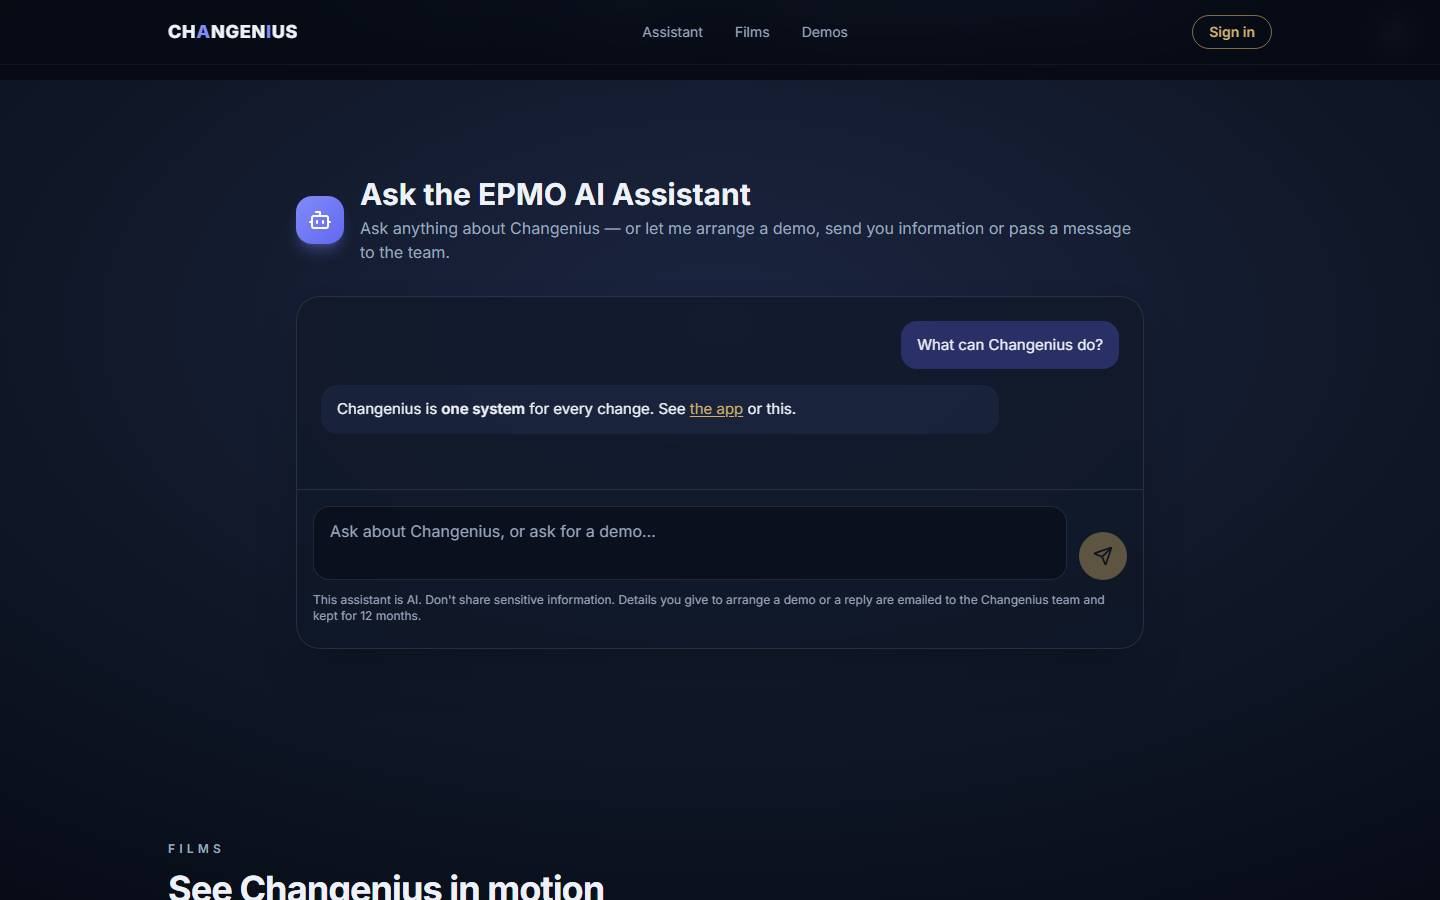
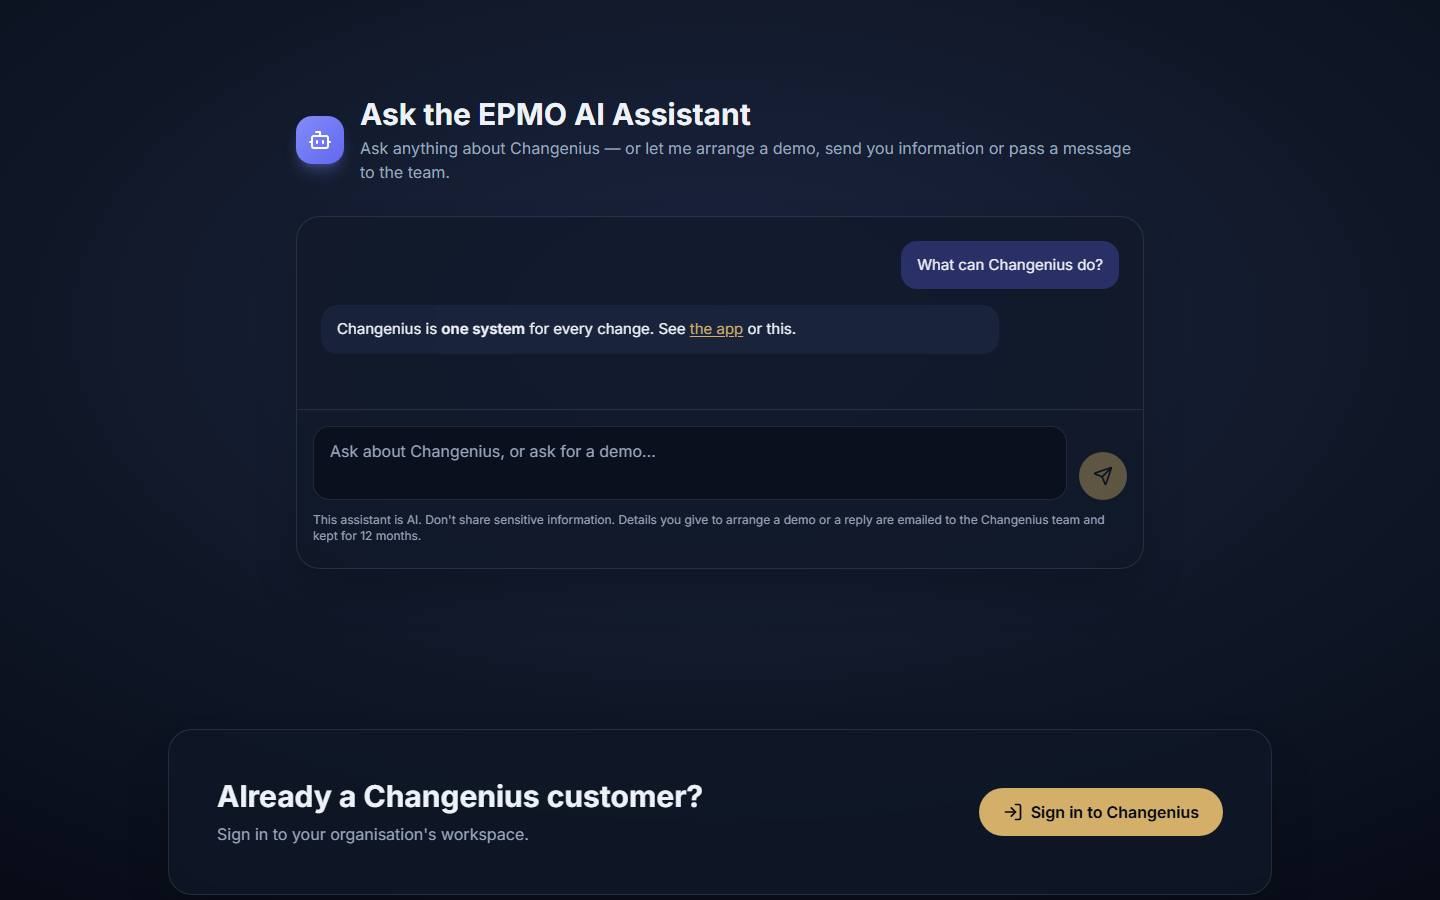
docs: SIT for the hero swap and page restructure, all screenshots retaken

diff --git a/docs/sit/2026-11-11-landing-sit.md b/docs/sit/2026-11-11-landing-sit.md
@@ -2,6 +2,10 @@
 
 **Date:** 11 Nov 2026 · **Branch:** `revamp/changenius-landing` (worktree `C:/Websites/cellgenius-website`), tested at `72cc755` plus the documentation added with this report · **Not pushed.**
 
+> **Superseded in part (later on 11 Nov 2026):** the planet hero, the header, the hero buttons and the module
+> commercials described below are gone. See [Hero swap and page restructure](#hero-swap-and-page-restructure-owner-decisions-11-nov-2026)
+> at the end. The screenshots in `2026-11-11-shots/` were all retaken for it.
+
 ## Result in one paragraph
 
 Every automated check passed. A production build was tested twice: with the assistant **on** (Turnstile test keys and a stub of the app on port 3199) and **off** (how the site will launch). The Content Security Policy blocked nothing in either build, and every script on the page carries the nonce. The chat answered. Lighthouse on a phone profile scores **98 performance / 100 accessibility with the assistant off**. With the assistant **on**, performance drops to **75**, because Cloudflare Turnstile loads with the page. That has to be fixed before the assistant is switched on, but it does not affect launch. The decorative planet labels in the hero fall below normal text contrast when they pass over the glow or the big word.
@@ -65,19 +69,21 @@ Three demo-tile readings at the very top of the screen came out as 1.0 because t
 
 | File | Shows | Seen |
 |---|---|---|
-| `01-hero-mid-word` | "AGENTIC AI" while it morphs | OK. Retaken after the follow-up: the CHANGE label dims while it crosses the word |
-| `02-hero-close` | "CHANGE IN US" | OK. Retaken after the follow-up: on phone the labels stay inside the screen |
-| `03-hero-reduced-motion` | Still frame, all planets | OK. Retaken with the brighter labels and halo |
+| `01-hero-mid-word` | Wordmark show, act "born from the top": AGENTIC AI built from the name (14.5 s into the 147.2 s loop) | OK |
+| `02-hero-close` | The closure: CHANGE IN US and "The change is in us" (144.5 s) | OK |
+| `03-hero-reduced-motion` | Reduced motion: the show's static CHANGENIUS, no backdrop video | OK |
 | `04-assistant-empty` | Chips, message box, footnote | OK |
-| `05-assistant-answer` | Answer with an own-domain link | OK. The link to another domain is shown as plain text |
+| `05-assistant-answer` | Answer with an own-domain link | OK |
 | `06-assistant-request-card` | Demo request card | OK. On phone the card scrolls inside the conversation |
 | `07-assistant-sent` | Confirmation line | OK |
-| `08-films` | Film section | OK. Retaken after the follow-up: the missing poster now leaves the designed title card |
+| `08-films` | Films section: the 2-minute film first | OK. Poster 404 locally, so the designed title card shows |
 | `09-film-viewer` | Viewer dialog | Spinner only: no media locally |
-| `10-sign-in` | Sign-in panel | OK |
-| `11-demos` | Demo chapters | OK |
-| `12-hero-assistant-off` | Hero with the assistant off: "Questions? Email us" | OK. The phone frame was caught while the name blurs in, which is the intro animation |
-| `13-assistant-off-section` | The email line in place of the chat; header says "Contact" | OK |
+| `10-sign-in` | Sign-in panel, now above the films | OK |
+| `11-film-chapters` | The executive demo chapters, after the deeper look, inside the films section (replaces `11-demos`) | OK |
+| `12-hero-assistant-off` | Hero with the assistant off (the hero no longer differs: no buttons) | OK |
+| `13-assistant-off-section` | The email line in place of the chat | OK |
+| `14-hero-hub-cascade` | Act "hub cascade": CHANGE morphing in place (54 s) | OK |
+| `15-hero-constellation` | Act "constellation": five orbiting words round CHANGENIUS (139 s) | OK on desktop. On phone the outer script lines touch or cross the screen edge (finding H1) |
 
 ## Findings
 
@@ -144,15 +150,46 @@ Before: desktop medians 2.2–7.7, phone 2.0–4.1. One phone sample had a singl
 
 - Middleware matcher not anchored (`api|media|icon.svg`). It is a guarded file, so changing it needs an owner-approved script.
 - Two anonymous-default-export lint warnings.
-- The phone menu's navigation label is the same as the desktop one ("Sections"). The Escape path in the phone menu is not tested.
 - With reduced motion, the hidden backdrop video may still download before hydration (`preload="auto"`).
-- No e2e that Pause stops the motion cycle.
 - The rate limiter is per instance (the app's limits are the real ones).
 - The e2e stub does not record calls. The Markdown parser is slow on an unclosed `[`. The Playwright servers do not reuse running ones, so ports must be free.
-- With the assistant on, the hero button focuses the message box. If it is clicked in the first ~0.6 s, before the chat chunk arrives, nothing gets focus.
 - The Vercel `MEDIA_BASE_URL` warning may print more than once per build.
 
-## Not tested
+## Hero swap and page restructure (owner decisions, 11 Nov 2026)
+
+Tested at the commit that carries this section. Production builds with the assistant **on** (Turnstile test keys, app stub on 3199, server on 3200) and **off** (server on 3201).
+
+**What changed.**
+
+1. **Hero.** The planet visualisation is replaced by the app's login-page wordmark show, copied unchanged from `ppm-app` `origin/master@b3f65f48` (`src/components/brand/changenius-wordmark-show.tsx` and its generated CSS module, byte-identical apart from a one-line provenance comment), with the login's ring-and-spark icon above it, in the login's 448 px column. It runs at **twice the login tempo** (one loop is 147.2 s instead of 294.4 s) through one scoped rule in `globals.css`; the generated CSS is not edited. Pause, scrolling the hero away or hiding the tab pauses the show (`animation-play-state: paused` via `data-paused`), the backdrop video and the statement. The statement above it is now an independent rotator: seven lines, 6 s each. Reduced motion shows the show's own static CHANGENIUS and no backdrop video. The planet code (`OrbitStage`, `NameMorph`, `morph`, `orbit`, `timeline`, their 11 unit tests) is deleted.
+2. **Hero buttons removed** ("Ask the EPMO AI Assistant" / "Questions? Email us", "Watch the film", "Sign in"), with their focus logic.
+3. **Header removed** (fixed bar, phone menu, nav list, skip link, the `pt-16` offset). The footer keeps the wordmark and the assistant note.
+4. **Module commercials removed** (the eight `/manual/<module>/commercial.mp4` films).
+5. **One films section:** the 2-minute film, then *A deeper look* (13 chapters), then *The executive demo* (9). Next-chapter behaviour unchanged.
+6. **Page order:** hero → assistant → sign-in panel → films → footer.
+
+**Checks.**
+
+| Check | Result |
+|---|---|
+| `npm run typecheck` | Pass, 0 errors |
+| `npm run lint` | 0 errors, the same 2 warnings |
+| `npx vitest run` | Pass: 9 files, **83 tests** (planet tests removed; content test now pins the statement list, the chapter order and no module commercials) |
+| `npm run build` (on and off) | Pass. `/` 23.5 kB, 126 kB First Load JS |
+| `npx playwright test` (desktop, phone, assistant-off) | Pass: **40 passed** (the phone-menu skip is gone with the menu). New: the show is visible with its login label and icon, runs at 147.2 s, pause sets `paused` on the show and holds the statement, play resumes both; reduced motion shows the still wordmark with no video; no header or navigation; section order; films order with 23 tiles |
+| CSP, production build, on and off | Pass. **0** "Content Security Policy" / "Refused to" messages. **19/19** scripts carry the nonce. The show's `measure()` injects a `<style>` and sets inline custom properties; `style-src 'unsafe-inline'` allows both, and the measured offsets were present (e.g. `--dx: -52.8px`). The only console errors are the film poster 404 (no `MEDIA_BASE_URL` locally) |
+| Overlap at 1440×900, 1280×720, 390×844 | None. Statement 24–228 px / show 398–798 px of a 900 px hero (desktop); 24–226 / 310–710 of 726 (1280×720: 6 px below the fold, empty in most acts); 24–152 / 332–732 of 844 (phone). The pause button sits clear of the show's columns |
+| Screenshots | All 30 retaken (two new: `14`, `15`) and looked at; frames chosen by setting the show's animation time |
+
+**Findings.**
+
+| # | Finding | Severity | Status |
+|---|---|---|---|
+| H1 | On a 390 px phone, in the constellation act (about 24 s of each loop), the small script lines under CHANGE and AGENTIC AI run a few pixels past the screen edge, and the CHANGE and AI script lines touch. The show was designed for the login's 448 px column, which the app only shows on large screens. | Cosmetic | Open, for the owner. Not fixed here because "as it is" rules out editing the show, and shrinking it does not work (H2) |
+| H2 | Shrinking the show with `transform: scale()` or CSS `zoom` breaks it: `measure()` reads on-screen distances, which the scale then applies a second time, so travelling letters start about 16% off their source letter (measured: 6 px / 15 px out at 0.8). | Design constraint | No scale is used. The hero is laid out so the show fits unscaled at all three sizes |
+| H3 | The copied show re-measures on every window resize, and its measuring step restarts the loop from the beginning. On phones, the address bar showing or hiding fires a resize, so scrolling near the top can restart the show. Same behaviour as on the login page. | Minor | Open. Changing it means changing the app's component |
+| H4 | The ring icon keeps the login's `role="img"` and name "Changenius", next to the show's own label, so a screen reader hears the name twice in the hero. | Minor | Kept, to match the login |
+
 
 - **The live app endpoint (Plan B)**: only the local stub of `/api/public/website-assistant` was used. Real answers, cost limits and the app's own rate limits were not exercised.
 - **Real email**: no demo request was delivered to info@cellgenius-ai.com. The stub only says it was.

diff --git a/README.md b/README.md
@@ -1,7 +1,7 @@
 # cellgenius-ai.com
 
-The Changenius landing page: a cinematic hero, the EPMO AI Assistant (a chat relayed to the
-Changenius app), the films, a sign-in panel and the demo chapters. Next.js 15, React 19,
+The Changenius landing page: a hero playing the app's CHANGENIUS wordmark show, the EPMO AI Assistant (a chat relayed to the
+Changenius app), a sign-in panel, and the films (the 2-minute film, then the demo chapters). Next.js 15, React 19,
 Tailwind CSS 4.
 
 The design and its reasons are in
